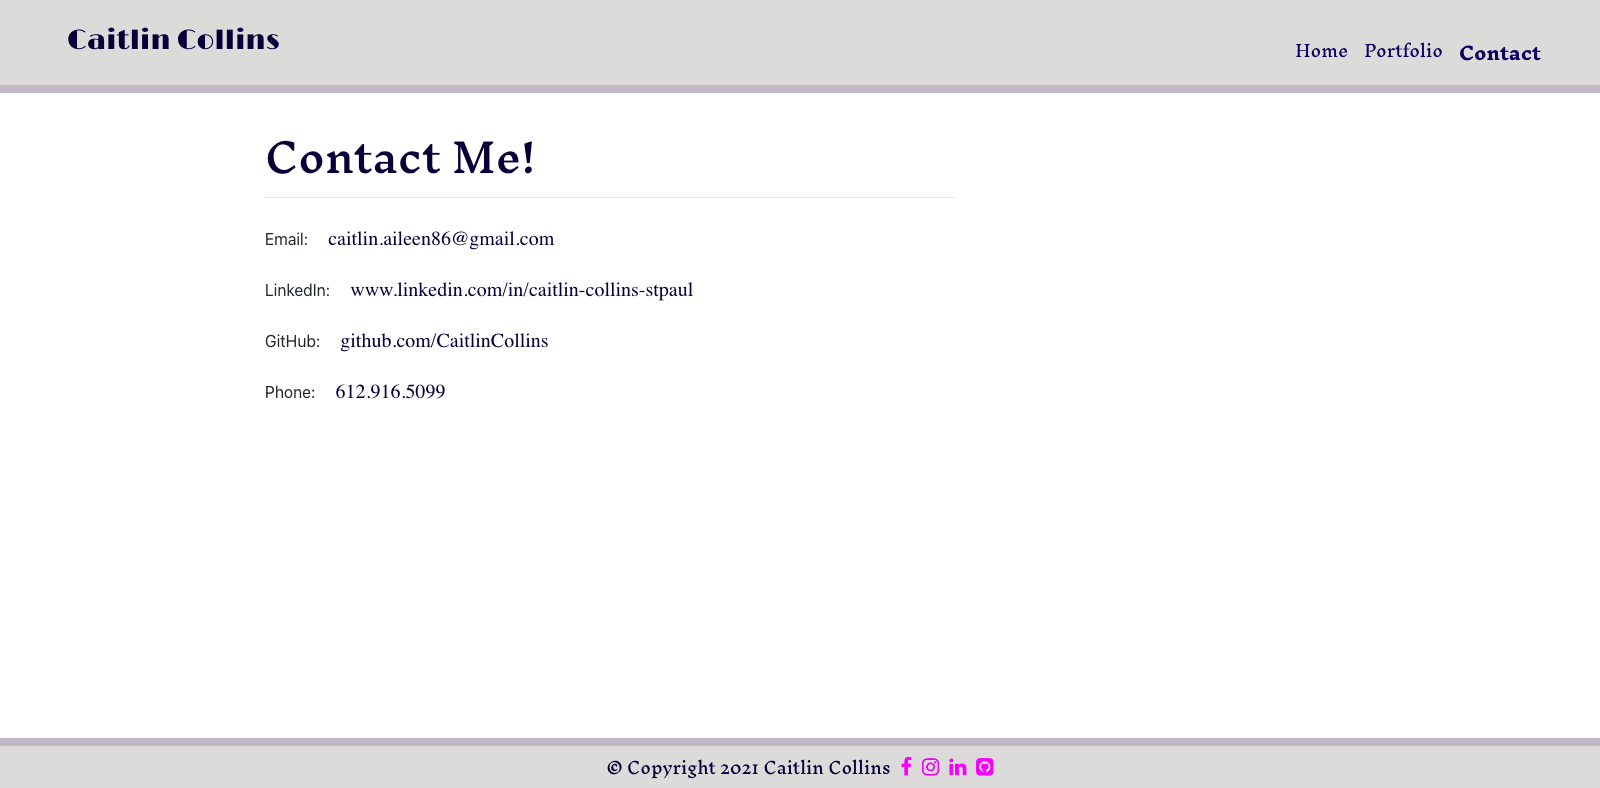
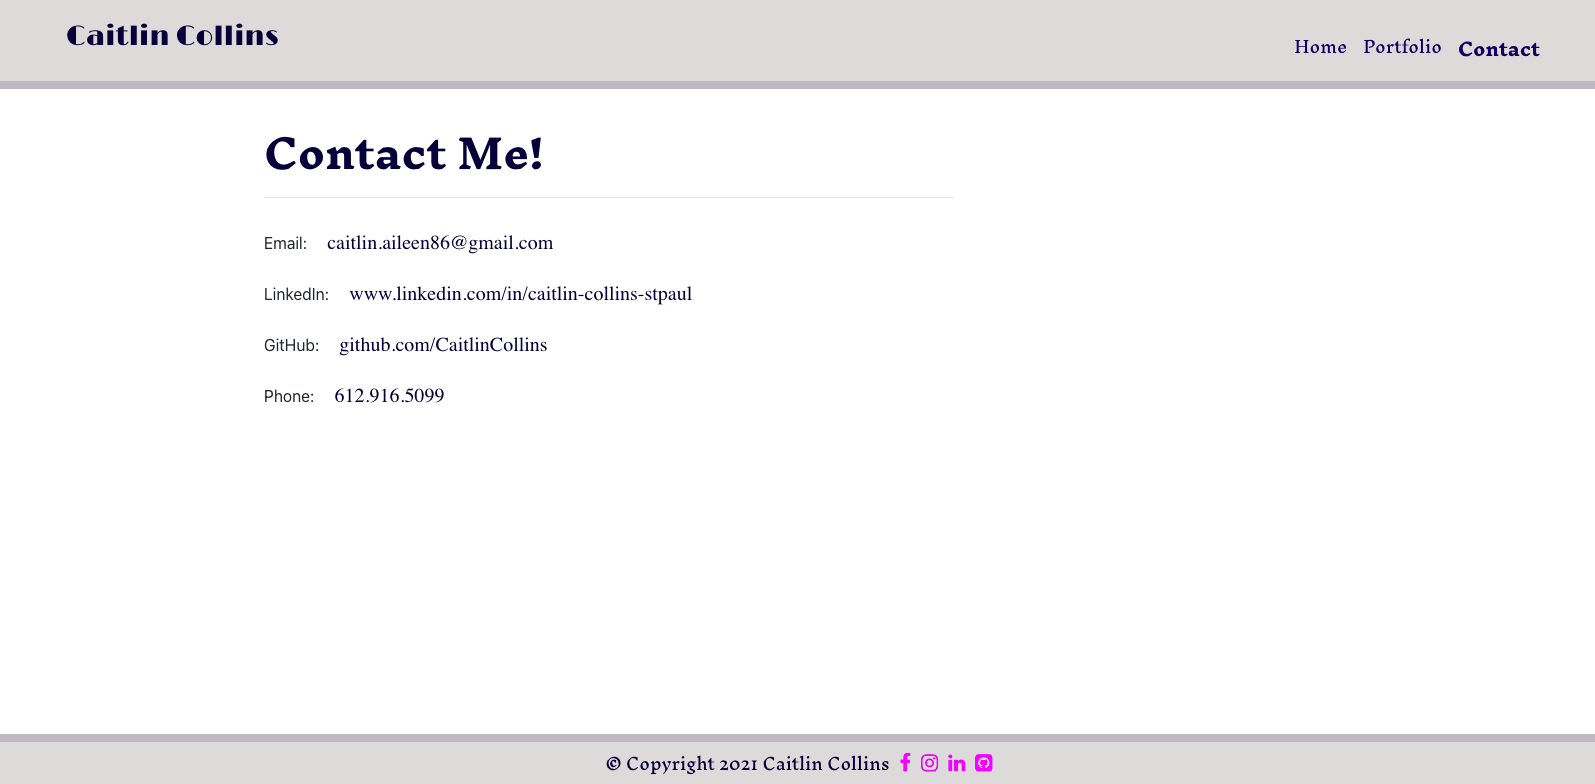
Updates

diff --git a/index.html b/index.html
@@ -1,1 +1,1 @@
-<!doctype html><html lang="en"><head><meta charset="utf-8"/><link rel="icon" href="/React-Portfolio/favicon.ico"/><meta name="viewport" content="width=device-width,initial-scale=1"/><meta name="theme-color" content="#000000"/><meta name="description" content="Web site created using create-react-app"/><link rel="apple-touch-icon" href="/React-Portfolio/logo192.png"/><link rel="manifest" href="/React-Portfolio/manifest.json"/><link rel="preconnect" href="https://fonts.gstatic.com"/><link href="https://fonts.googleapis.com/css2?family=Inknut+Antiqua:wght@400;500;700&family=Limelight&family=Quicksand:wght@300;400;500;600&display=swap" rel="stylesheet"/><link rel="stylesheet" href="https://cdnjs.cloudflare.com/ajax/libs/font-awesome/4.7.0/css/font-awesome.min.css"/><link rel="stylesheet" href="https://cdnjs.cloudflare.com/ajax/libs/animate.css/4.1.1/animate.min.css"/><title>Caitlin Collins</title><link href="/React-Portfolio/static/css/2.4c97ca4f.chunk.css" rel="stylesheet"><link href="/React-Portfolio/static/css/main.8ca988bc.chunk.css" rel="stylesheet"></head><body><noscript>You need to enable JavaScript to run this app.</noscript><div id="root"></div><script src="https://ajax.googleapis.com/ajax/libs/jquery/1.11.3/jquery.min.js"></script><script src="https://cdnjs.cloudflare.com/ajax/libs/popper.js/1.14.3/umd/popper.min.js"></script><script src="https://maxcdn.bootstrapcdn.com/bootstrap/4.0.0/js/bootstrap.min.js"></script><script>!function(e){function r(r){for(var n,a,i=r[0],c=r[1],l=r[2],p=0,s=[];p<i.length;p++)a=i[p],Object.prototype.hasOwnProperty.call(o,a)&&o[a]&&s.push(o[a][0]),o[a]=0;for(n in c)Object.prototype.hasOwnProperty.call(c,n)&&(e[n]=c[n]);for(f&&f(r);s.length;)s.shift()();return u.push.apply(u,l||[]),t()}function t(){for(var e,r=0;r<u.length;r++){for(var t=u[r],n=!0,i=1;i<t.length;i++){var c=t[i];0!==o[c]&&(n=!1)}n&&(u.splice(r--,1),e=a(a.s=t[0]))}return e}var n={},o={1:0},u=[];function a(r){if(n[r])return n[r].exports;var t=n[r]={i:r,l:!1,exports:{}};return e[r].call(t.exports,t,t.exports,a),t.l=!0,t.exports}a.e=function(e){var r=[],t=o[e];if(0!==t)if(t)r.push(t[2]);else{var n=new Promise((function(r,n){t=o[e]=[r,n]}));r.push(t[2]=n);var u,i=document.createElement("script");i.charset="utf-8",i.timeout=120,a.nc&&i.setAttribute("nonce",a.nc),i.src=function(e){return a.p+"static/js/"+({}[e]||e)+"."+{3:"bdd22a54"}[e]+".chunk.js"}(e);var c=new Error;u=function(r){i.onerror=i.onload=null,clearTimeout(l);var t=o[e];if(0!==t){if(t){var n=r&&("load"===r.type?"missing":r.type),u=r&&r.target&&r.target.src;c.message="Loading chunk "+e+" failed.\n("+n+": "+u+")",c.name="ChunkLoadError",c.type=n,c.request=u,t[1](c)}o[e]=void 0}};var l=setTimeout((function(){u({type:"timeout",target:i})}),12e4);i.onerror=i.onload=u,document.head.appendChild(i)}return Promise.all(r)},a.m=e,a.c=n,a.d=function(e,r,t){a.o(e,r)||Object.defineProperty(e,r,{enumerable:!0,get:t})},a.r=function(e){"undefined"!=typeof Symbol&&Symbol.toStringTag&&Object.defineProperty(e,Symbol.toStringTag,{value:"Module"}),Object.defineProperty(e,"__esModule",{value:!0})},a.t=function(e,r){if(1&r&&(e=a(e)),8&r)return e;if(4&r&&"object"==typeof e&&e&&e.__esModule)return e;var t=Object.create(null);if(a.r(t),Object.defineProperty(t,"default",{enumerable:!0,value:e}),2&r&&"string"!=typeof e)for(var n in e)a.d(t,n,function(r){return e[r]}.bind(null,n));return t},a.n=function(e){var r=e&&e.__esModule?function(){return e.default}:function(){return e};return a.d(r,"a",r),r},a.o=function(e,r){return Object.prototype.hasOwnProperty.call(e,r)},a.p="/React-Portfolio/",a.oe=function(e){throw console.error(e),e};var i=this.webpackJsonpreactpractice=this.webpackJsonpreactpractice||[],c=i.push.bind(i);i.push=r,i=i.slice();for(var l=0;l<i.length;l++)r(i[l]);var f=c;t()}([])</script><script src="/React-Portfolio/static/js/2.39c40b2d.chunk.js"></script><script src="/React-Portfolio/static/js/main.0094aa25.chunk.js"></script></body></html>
+<!doctype html><html lang="en"><head><meta charset="utf-8"/><link rel="icon" href="/React-Portfolio/favicon.ico"/><meta name="viewport" content="width=device-width,initial-scale=1"/><meta name="theme-color" content="#000000"/><meta name="description" content="Web site created using create-react-app"/><link rel="apple-touch-icon" href="/React-Portfolio/logo192.png"/><link rel="manifest" href="/React-Portfolio/manifest.json"/><link rel="preconnect" href="https://fonts.gstatic.com"/><link href="https://fonts.googleapis.com/css2?family=Inknut+Antiqua:wght@400;500;700&family=Limelight&family=Quicksand:wght@300;400;500;600&display=swap" rel="stylesheet"/><link rel="stylesheet" href="https://cdnjs.cloudflare.com/ajax/libs/font-awesome/4.7.0/css/font-awesome.min.css"/><link rel="stylesheet" href="https://cdnjs.cloudflare.com/ajax/libs/animate.css/4.1.1/animate.min.css"/><title>Caitlin Collins</title><link href="/React-Portfolio/static/css/2.4c97ca4f.chunk.css" rel="stylesheet"><link href="/React-Portfolio/static/css/main.2a248adc.chunk.css" rel="stylesheet"></head><body><noscript>You need to enable JavaScript to run this app.</noscript><div id="root"></div><script src="https://ajax.googleapis.com/ajax/libs/jquery/1.11.3/jquery.min.js"></script><script src="https://cdnjs.cloudflare.com/ajax/libs/popper.js/1.14.3/umd/popper.min.js"></script><script src="https://maxcdn.bootstrapcdn.com/bootstrap/4.0.0/js/bootstrap.min.js"></script><script>!function(e){function r(r){for(var n,a,i=r[0],c=r[1],l=r[2],p=0,s=[];p<i.length;p++)a=i[p],Object.prototype.hasOwnProperty.call(o,a)&&o[a]&&s.push(o[a][0]),o[a]=0;for(n in c)Object.prototype.hasOwnProperty.call(c,n)&&(e[n]=c[n]);for(f&&f(r);s.length;)s.shift()();return u.push.apply(u,l||[]),t()}function t(){for(var e,r=0;r<u.length;r++){for(var t=u[r],n=!0,i=1;i<t.length;i++){var c=t[i];0!==o[c]&&(n=!1)}n&&(u.splice(r--,1),e=a(a.s=t[0]))}return e}var n={},o={1:0},u=[];function a(r){if(n[r])return n[r].exports;var t=n[r]={i:r,l:!1,exports:{}};return e[r].call(t.exports,t,t.exports,a),t.l=!0,t.exports}a.e=function(e){var r=[],t=o[e];if(0!==t)if(t)r.push(t[2]);else{var n=new Promise((function(r,n){t=o[e]=[r,n]}));r.push(t[2]=n);var u,i=document.createElement("script");i.charset="utf-8",i.timeout=120,a.nc&&i.setAttribute("nonce",a.nc),i.src=function(e){return a.p+"static/js/"+({}[e]||e)+"."+{3:"bdd22a54"}[e]+".chunk.js"}(e);var c=new Error;u=function(r){i.onerror=i.onload=null,clearTimeout(l);var t=o[e];if(0!==t){if(t){var n=r&&("load"===r.type?"missing":r.type),u=r&&r.target&&r.target.src;c.message="Loading chunk "+e+" failed.\n("+n+": "+u+")",c.name="ChunkLoadError",c.type=n,c.request=u,t[1](c)}o[e]=void 0}};var l=setTimeout((function(){u({type:"timeout",target:i})}),12e4);i.onerror=i.onload=u,document.head.appendChild(i)}return Promise.all(r)},a.m=e,a.c=n,a.d=function(e,r,t){a.o(e,r)||Object.defineProperty(e,r,{enumerable:!0,get:t})},a.r=function(e){"undefined"!=typeof Symbol&&Symbol.toStringTag&&Object.defineProperty(e,Symbol.toStringTag,{value:"Module"}),Object.defineProperty(e,"__esModule",{value:!0})},a.t=function(e,r){if(1&r&&(e=a(e)),8&r)return e;if(4&r&&"object"==typeof e&&e&&e.__esModule)return e;var t=Object.create(null);if(a.r(t),Object.defineProperty(t,"default",{enumerable:!0,value:e}),2&r&&"string"!=typeof e)for(var n in e)a.d(t,n,function(r){return e[r]}.bind(null,n));return t},a.n=function(e){var r=e&&e.__esModule?function(){return e.default}:function(){return e};return a.d(r,"a",r),r},a.o=function(e,r){return Object.prototype.hasOwnProperty.call(e,r)},a.p="/React-Portfolio/",a.oe=function(e){throw console.error(e),e};var i=this.webpackJsonpreactpractice=this.webpackJsonpreactpractice||[],c=i.push.bind(i);i.push=r,i=i.slice();for(var l=0;l<i.length;l++)r(i[l]);var f=c;t()}([])</script><script src="/React-Portfolio/static/js/2.39c40b2d.chunk.js"></script><script src="/React-Portfolio/static/js/main.0094aa25.chunk.js"></script></body></html>

diff --git a/static/css/main.2a248adc.chunk.css b/static/css/main.2a248adc.chunk.css
@@ -1,0 +1,2 @@
+body{margin:0;font-family:-apple-system,BlinkMacSystemFont,"Segoe UI","Roboto","Oxygen","Ubuntu","Cantarell","Fira Sans","Droid Sans","Helvetica Neue",sans-serif;-webkit-font-smoothing:antialiased;-moz-osx-font-smoothing:grayscale}code{font-family:source-code-pro,Menlo,Monaco,Consolas,"Courier New",monospace}nav{background-color:#dddada;height:auto;border-bottom:solid;border-color:#c0b9c5;border-width:8px}.nav-link{font-family:"Inknut Antiqua",sans-serif;font-size:16px;color:#020260!important}header{padding:20px 0}.navigation{margin-left:auto;margin-right:20px}#navbar-brand{font-family:"Limelight",cursive;font-size:28px;color:#020238!important;padding-bottom:10px;margin-left:20px}.navbar-toggler{margin-right:20px}.navbar-collapse{text-align:center;padding-top:20px}.active{font-weight:700;font-size:18px}.nav-link:hover,a:hover{color:#c0b9c5!important}.nav-link:active,a:active{color:#f0f!important}span:hover{background-color:#f0f!important}footer{background-color:#dddada;color:#020238;font-size:16px;font-family:"Inknut Antiqua",sans-serif;text-align:center;padding-top:10px;height:50px;width:100%;position:fixed;left:0;bottom:0;border-color:#c0b9c5;border-top:solid #c0b9c5;border-width:8px;margin-top:80px}.icon{padding:0 0 10px 10px;border:none;font-size:20px;text-decoration:none;color:#f0f!important}.card{background-color:#dddada;overflow:auto;margin:80px 40px;padding:0 20px 20px;border-radius:20px}ul{padding-left:0}p{text-align:justify}.contactP,.languages,.tools,.tools2{font-size:18px;text-align:left}.contactP,.languages,.tools,.tools2,figcaption{font-family:"Gill Sans","Gill Sans MT",Calibri,"Trebuchet MS",sans-serif;line-height:1.5;color:#020238}figcaption{font-size:20px;text-align:center}.download{float:right;border:solid;border-radius:10px;size:1px;color:#fff;background-color:#020238;margin-top:5px;margin-right:20px}.deploy:hover,.download:hover{color:#c0b9c5}.deploy:active,.download:active{color:#f0f}.bioimg{margin-left:auto;margin-right:auto;max-width:4400px;padding:10px 0 20px}.firstP{padding:20px 20px 0 10px;font-size:18px}.languages,.tools,.tools2{font-size:20px;color:purple;padding-left:10px}.tools,.tools2{display:inline-block}.tools2{margin-top:10px}.item{margin-left:20px;color:#020238;font-size:16px}.tag{float:left}@media only screen and (max-width:1366px){.bioimg{max-width:440px}}@media only screen and (max-width:1112px){.bioimg{max-width:260px}}@media only screen and (max-width:1024px){.bioimg{max-width:290px;padding-top:10px;padding-bottom:20px}}@media only screen and (max-width:812px){.download{font-size:14px}.bioimg{max-width:215px}}@media only screen and (max-width:768px){h1{font-size:30px}.download{font-size:13px}.bioimg{max-width:240px;padding-top:30px}}@media only screen and (max-width:667px){h1{font-size:24px;padding-left:10px}.download{font-size:11px}.bioimg{max-width:410px;padding-top:0}}@media only screen and (max-width:568px){h1{font-size:34px}.download{font-size:14px}.bioimg{max-width:420px}}@media only screen and (max-width:414px){h1{font-size:30px}.download{font-size:13px}.bioimg{max-width:350px}}@media only screen and (max-width:375px){h1{font-size:28px}.download{font-size:10px}.bioimg{max-width:315px}}@media only screen and (max-width:320px){h1{font-size:24px}.bioimg{max-width:285px}}figure{padding:20px}.card{margin-bottom:40px;background-color:#c0b9c5;-webkit-animation:fadeInDownBig;animation:fadeInDownBig;-webkit-animation-duration:3s;animation-duration:3s;padding:40px}.portimg{max-width:750px;margin-right:auto;margin-left:auto}.deploy{margin-left:20px;border:solid;border-radius:10px;size:1px;color:snow;background-color:purple}.spacerTop{height:40px}article{margin:0 40px;padding:0 20px 20px}article,aside{background-color:#dddada;overflow:auto;border-radius:20px}aside{margin:40px 20px;padding:40px 20px}h1{font-family:"Inknut Antiqua",serif;font-size:40px;font-weight:700;color:#020238;padding:40px 0 0 20px}h3{font-family:"Gill Sans","Gill Sans MT",Calibri,"Trebuchet MS",sans-serif;padding-top:20px}hr{margin:20px}form{padding:10px 20px 30px}.contactbtn{margin-left:20px;width:100px;height:60px;background-color:#020238}.bottomcontact{padding:130px 0}.contactP{font-size:20px;font-family:Calibri;color:#020238;padding-top:10px;padding-left:20px;border:none}.App{text-align:center}.App-logo{height:40vmin;pointer-events:none}@media (prefers-reduced-motion:no-preference){.App-logo{-webkit-animation:App-logo-spin 20s linear infinite;animation:App-logo-spin 20s linear infinite}}.App-header{background-color:#282c34;min-height:100vh;display:-webkit-flex;display:flex;-webkit-flex-direction:column;flex-direction:column;-webkit-align-items:center;align-items:center;-webkit-justify-content:center;justify-content:center;font-size:calc(10px + 2vmin);color:#fff}.App-link{color:#61dafb}@-webkit-keyframes App-logo-spin{0%{-webkit-transform:rotate(0deg);transform:rotate(0deg)}to{-webkit-transform:rotate(1turn);transform:rotate(1turn)}}@keyframes App-logo-spin{0%{-webkit-transform:rotate(0deg);transform:rotate(0deg)}to{-webkit-transform:rotate(1turn);transform:rotate(1turn)}}
+/*# sourceMappingURL=main.2a248adc.chunk.css.map */
